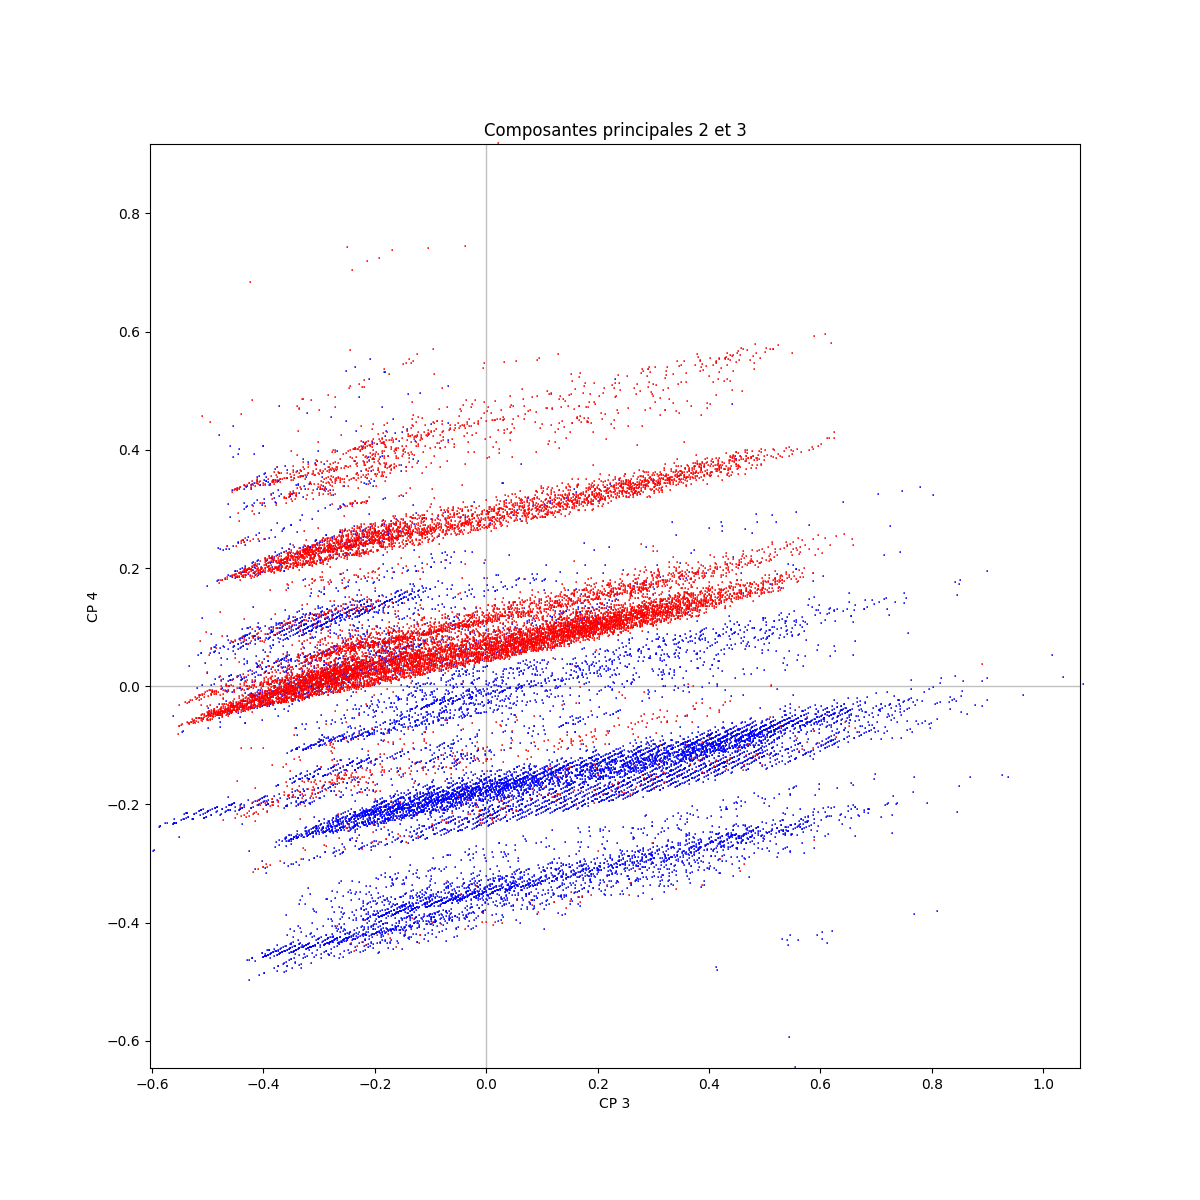
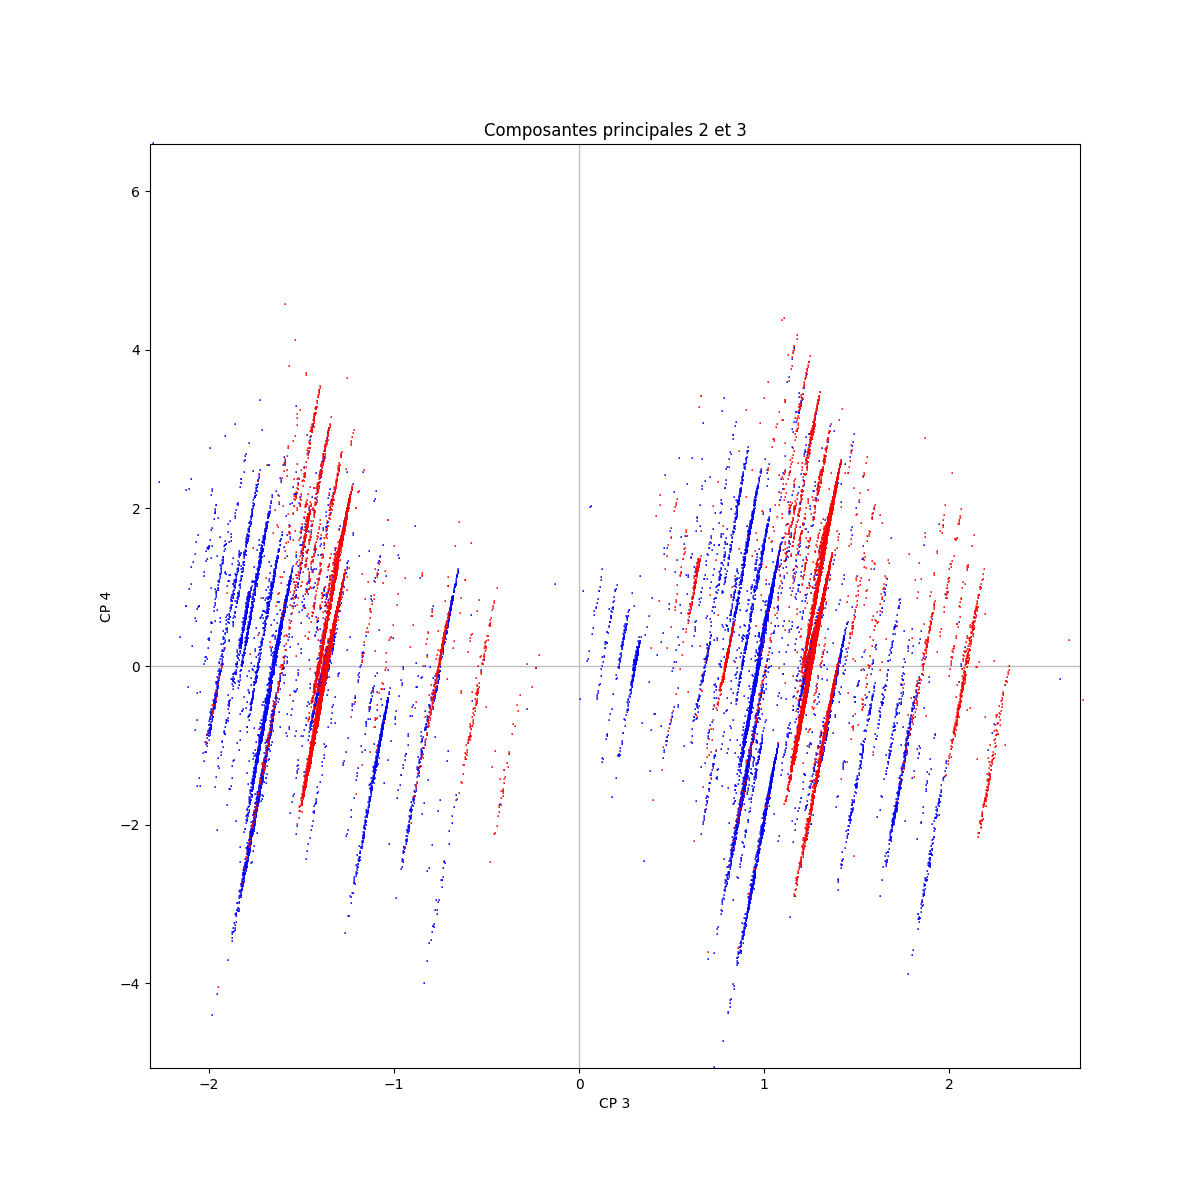
Bonne config de l'ACP

diff --git a/Kowalski.py b/Kowalski.py
@@ -67,13 +67,17 @@ def main():
     # On ne garde que l'année de l'adhésion
     df["annee_adh"] = df["annee_adh"].str.slice(stop = 4).astype(int)
 
+    save_correlation(df, "_original")
+
     # Filtrage des colonnes
     # df = df[["sexe", "nb_enfants", "situation_fam", "statut", "categorie", "annee_adh", "age", "duree", "demissionnaire"]]
-    # df = df[["sexe", "nb_enfants", "situation_fam", "statut", "categorie", "age", "duree", "demissionnaire"]]
+    df = df[["sexe", "nb_enfants", "situation_fam", "categorie", "age", "duree", "demissionnaire"]]
+
+    save_correlation(df, "_filtered")
 
     # Ligne 1: on ne discretise pas; Ligne 2: on discretise
-    df["situation_fam"] = df["situation_fam"].apply(lambda x: ord(x.lower()) - 96).astype(int)
-    # df = discretization(df, ["categorie", "statut", "situation_fam", "sexe"])
+    # df["situation_fam"] = df["situation_fam"].apply(lambda x: ord(x.lower()) - 96).astype(int)
+    df = discretization(df, ["categorie", "situation_fam", "sexe"]) 
     
     # On prend autant de démissionnaires que de non démissionnaires
     mini = min([df[df["demissionnaire"] == True].count().iloc[0], df[df["demissionnaire"] == False].count().iloc[0]])
@@ -82,10 +86,9 @@ def main():
     # Création des données X et Y
     X, Y = get_XY(df, "f")
 
-    save_correlation(X)
-
     # Scale des données
-    scaler = MinMaxScaler()
+    # scaler = MinMaxScaler()
+    scaler = StandardScaler()
     X_cols = X.columns
     x_scaled = scaler.fit_transform(X.values)
     X = pd.DataFrame(data = x_scaled, columns = X_cols)
@@ -125,8 +128,6 @@ def make_Kmeans(k, X):
     X['labels'] = labels
     # print(X.groupby(['labels','nb_enfants']).size())
     # print(X.groupby(['labels','categorie']).size())
-    
-
 
 # Function called to plot the elbow graph for choosing the kmeans number of cluster.
 def make_elbow(X):
@@ -145,7 +146,6 @@ def make_elbow(X):
     plt.title('The Elbow Method showing the optimal k')
     plt.savefig('fig/k-means_elbow_method')
     plt.close()
-
 
 # Discrétisation des données catégorielles
 def discretization(df, col_list):
@@ -256,18 +256,19 @@ def get_corvar(X, acp):
 def save_eigval_graph(eigval, p):
     fig = plt.figure()
     plt.plot(np.arange(1, p + 1), eigval)
-    plt.title("Scree plot")
+    plt.title("Variance par composante")
     plt.ylabel("Eigen values")
     plt.xlabel("Factor number")
     plt.savefig("fig/acp_eigen_values")
     print("ACP eigenvalues graph saved")
     plt.close(fig)
 
-def save_correlation(df, prefix = ""):
+def save_correlation(df, postfix = ""):
     corr = df.corr()
     ax = sn.heatmap(corr, annot = True)
-    plt.savefig("fig/" + prefix + "correlation")
+    plt.savefig("fig/correlation" + postfix)
     print("Data correlation graph saved")
+    plt.clf()
 
 if __name__ == "__main__":
     main()
